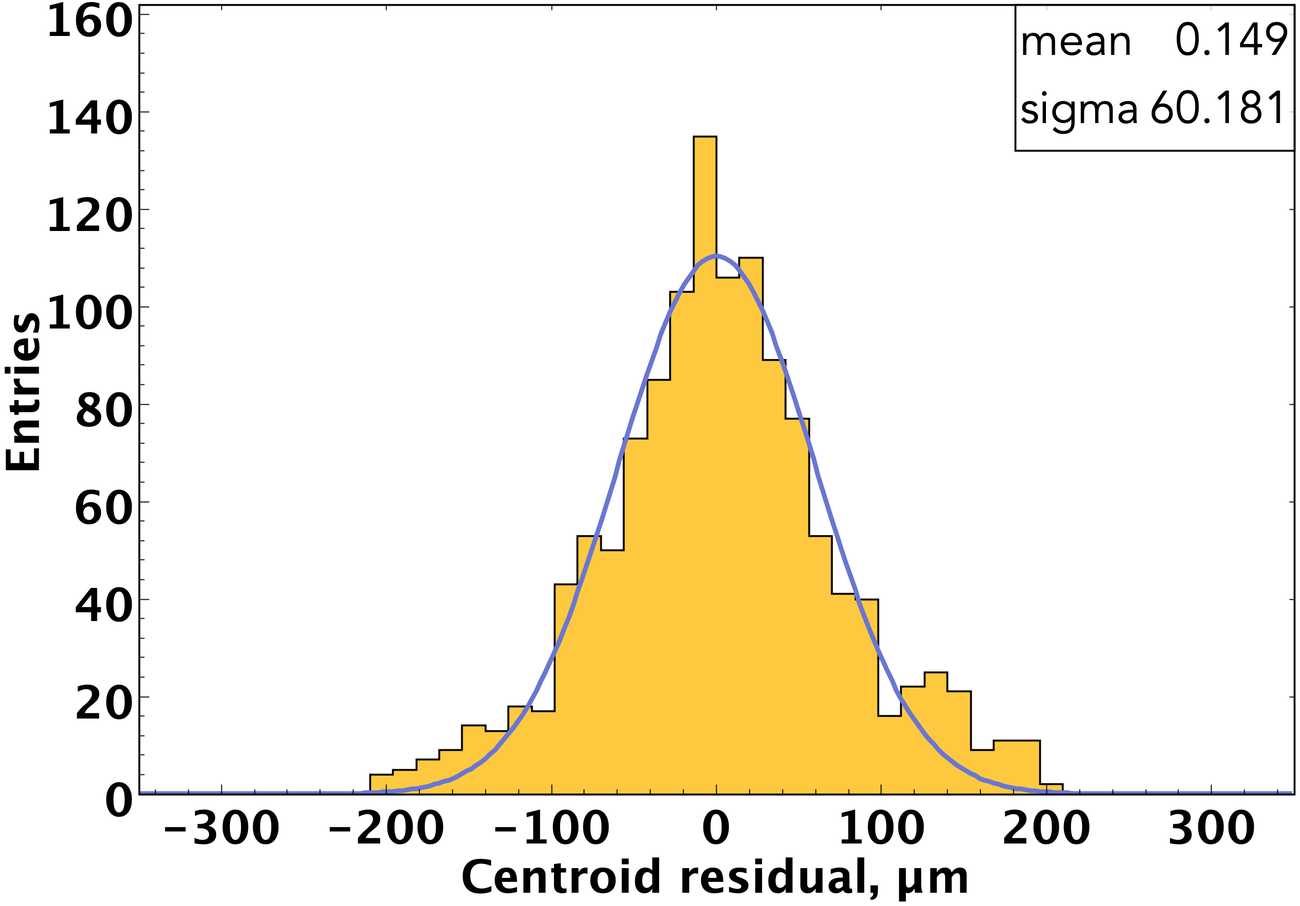
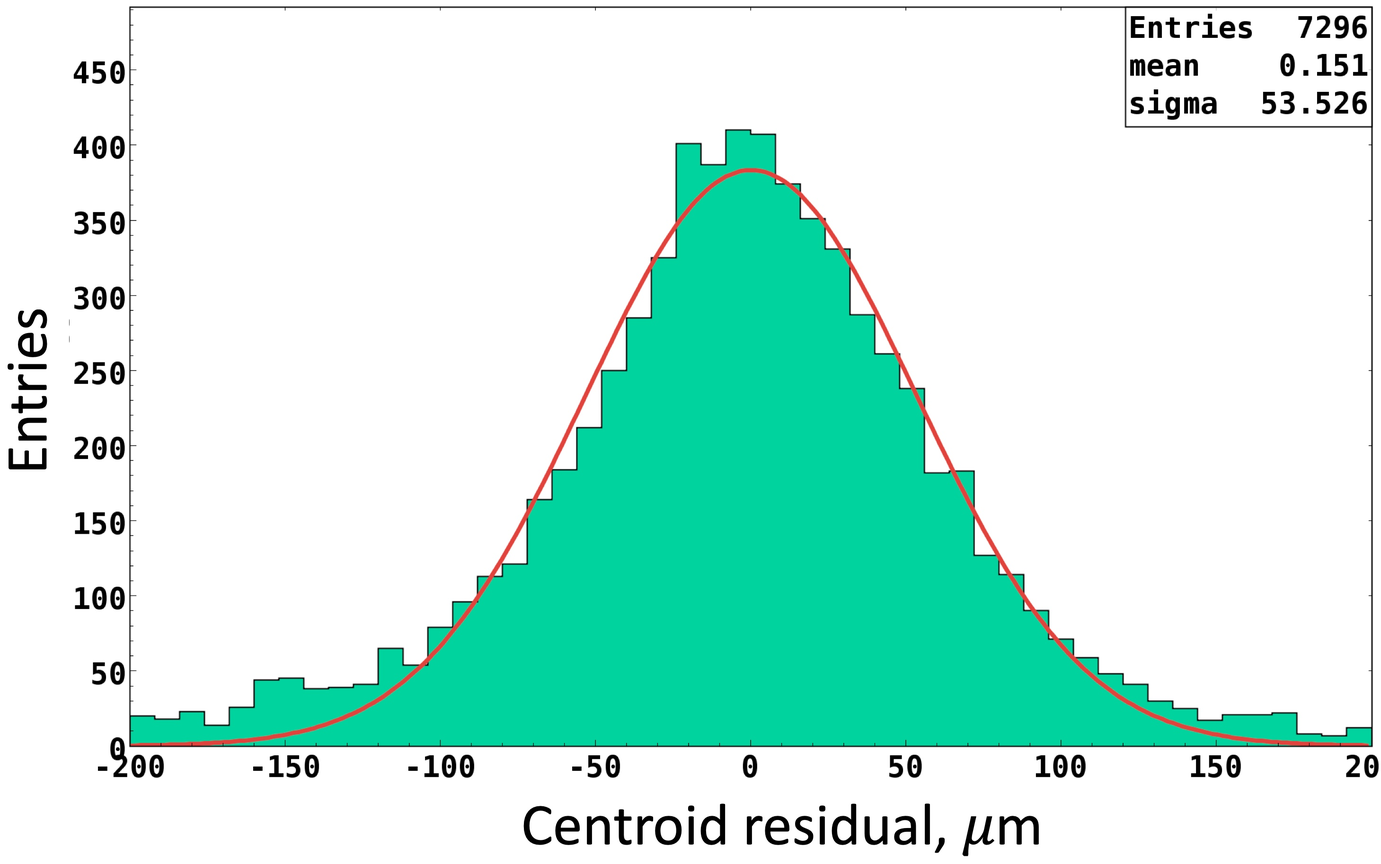
update performance, design

Changed region(s): [[0.0, 0.0, 1.0, 0.9989]]

diff --git a/svt/design.tex b/svt/design.tex
@@ -84,7 +84,7 @@ Single strip DC current & $<$2 nA\\ \hline
 \label{fig:backing-structure}
 \end{figure}
 
-The sensors are mounted on a backing structure composed of Rohacell 71 core, 78 $\mu$m thick bus cable, and carbon fiber (see Fig.~\ref{fig:backing-structure}). The carbon fiber skin is made from Mitsubishi type K13C2U fibers oriented in a quasi-isotropic (45/-45/0) pattern. To ensure adequate electrical conductivity, it is co-cured with the bus cable, made from a Kapton sheet with 3-$\mu$m thick and 0.5-mm wide copper traces; one side provides high voltage (HV) to the sensors, a 6$\times$6~mm copper mesh on the other side grounds the carbon fiber.  The Rohacell core under the hybrid board is replaced by a copper heat sink to remove $\sim$2~W of heat generated by the ASIC preamplifier chips. At the downstream end of the module, the Rohacell core is replaced by a PEEK insert. The cross-section of the active area of the module is shown in Fig.~\ref{fig:svt-module-layers}. 
+The sensors are mounted on a backing structure designed to provide rigid and lightweight support to the sensors. The backing structure is composed of Rohacell 71 core, 78 $\mu$m thick bus cable, and carbon fiber (see Fig.~\ref{fig:backing-structure}). The carbon fiber skin is made from Mitsubishi type K13C2U fibers oriented in a quasi-isotropic (45/-45/0) pattern. To ensure adequate electrical conductivity, it is co-cured with the bus cable, made from a Kapton sheet with 3-$\mu$m thick and 0.5-mm wide copper traces; one side provides high voltage (HV) to the sensors, a 6$\times$6~mm copper mesh on the other side grounds the carbon fiber.  The Rohacell core under the hybrid board is replaced by a copper heat sink to remove $\sim$2~W of heat generated by the ASIC preamplifier chips. At the downstream end of the module, the Rohacell core is replaced by a PEEK insert. The cross-section of the active area of the module is shown in Fig.~\ref{fig:svt-module-layers}. 
 
 \begin{figure}[hbt] 
 \centering 
@@ -109,7 +109,7 @@ A pitch adapter matches the 156~$\mu$m sensor readout pitch to the 50~$\mu$m FSS
 \label{fig:HFCB}
 \end{figure}
 
-Both sides of a module are instrumented with a readout system by a single rigid-flex Hybrid Flex Circuit Board (HFCB) located on the upstream end of the module (see Fig.~\ref{fig:HFCB}). The HFCB provides bias to the silicon sensors, and power and control lines to four FSSR2 ASICs located at the edge of the hybrid, two on the top and two on the bottom side. The ASICs are glued to pads on their substrates with conductive epoxy. These pads are the reference for the analog return for the chips. The hybrid area of each HFCB (42 x 82 mm) consists of two rigid boards (top and bottom hybrids) connected by a 10~mm-long wing flex High Density Interconnect (HDI) cable wrapped around the backing structure (see Fig.~\ref{fig:hfcb-wrap}). The transition line from the rigid board to the flex cable was strengthened. Both hybrids connect to the module electrically using micro-bonding technology for the signals and bias return, and solder connection for the detector bias and module support ground. The sensors, the pitch adapters, and the HFCB are glued to both sides of the backing structure. 
+Both sides of a module are instrumented with a readout system by a single rigid-flex Hybrid Flex Circuit Board (HFCB) located on the upstream end of the module (see Fig.~\ref{fig:HFCB}). The HFCB is a single circuit providing all module services and the components to control and read out the signals from the module. The SVT module is attached to the cold plate and all module service cables are passed through its slots. The design of the HFCB rigid and flex parts accommodates the geometrical constrains imposed by the barrel layout. The HFCB provides bias to the silicon sensors, and power and control lines to four FSSR2 ASICs located at the edge of the hybrid, two on the top and two on the bottom side. The ASICs are glued to pads on their substrates with conductive epoxy. These pads are the reference for the analog return for the chips. The hybrid area of each HFCB (42 x 82 mm) consists of two rigid boards (top and bottom hybrids) connected by a 10~mm-long wing flex High Density Interconnect (HDI) cable wrapped around the backing structure (see Fig.~\ref{fig:hfcb-wrap}). The transition line from the rigid board to the flex cable was strengthened. Both hybrids connect to the module electrically using micro-bonding technology for the signals and bias return, and solder connection for the detector bias and module support ground. The sensors, the pitch adapters, and the HFCB are glued to both sides of the backing structure. 
 
 \begin{figure}[hbt] 
 \centering 
@@ -165,7 +165,7 @@ For the thermal analysis, the module was modeled with the copper support and the
 
 \subsection{Module Assembly and Quality Assurance (QA)}
 
-The position resolution of the detector can be compromised if the alignment is not known. Due to tight material budget restrictions there is no room for an individual module adjustment system. Strict positional tolerances are imposed so that minimal corrections need to be made to the measurements. Therefore, both the position of the sensors with respect to each other and with respect to the alignment points are measured and controlled during module production. A mechanical survey was  carried out before electrical testing to check that the module fits within a well-defined envelope and to ensure no interference with adjacent modules on the support structure. The SVT modules were assembled at the Fermilab Silicon Detector Facility and tested at Jefferson Lab. Prior to installation on a module, all components were inspected and tested as part of the quality assurance procedure.  
+The position resolution of the detector can be compromised if the alignment is not known. Due to tight material budget restrictions there is no room for an individual module adjustment system. Strict positional tolerances are imposed so that minimal corrections need to be made to the measurements. Therefore, both the position of the sensors with respect to each other and with respect to the alignment points are measured and controlled during module production. A mechanical survey was  carried out before electrical testing to check that the module fits within a well-defined envelope and to ensure no interference with adjacent modules on the support structure. The SVT modules were assembled at the Fermilab Silicon Detector Facility and tested at Jefferson Lab. Prior to installation on a module, all components were inspected and tested as part of the quality assurance procedure. Risk failure modes were evaluated for all the production steps and the mitigation actions were taken.
 
 \begin{figure}[hbt] 
 \centering 
@@ -174,7 +174,7 @@ The position resolution of the detector can be compromised if the alignment is n
 \label{fig:iv-sensor}
 \end{figure}
 
-Sensor characterization was initially carried out by the manufacturer and later confirmed by the reception testing at Jlab and Fermilab. Fig.~\ref{fig:iv-sensor} shows the typical IV-curve for the hybrid-type sensor. Sensor leakage currents and the number of bad strips were within the specs and matched the data supplied by the vendor.
+Sensor characterization was initially carried out by the manufacturer and later confirmed by the reception testing at Jlab and Fermilab. Fig.~\ref{fig:iv-sensor} shows the typical IV-curve for the hybrid-type sensor. The quality of the sensors was excellent. All sensor parameters were better than the specification limits. Sensor leakage currents were well below the limit of 10 nA/cm$^2$ (470 nA) and there were no defective strips. 
 
 \begin{figure}[hbt] 
 \centering 
@@ -183,7 +183,7 @@ Sensor characterization was initially carried out by the manufacturer and later 
 \label{fig:cv-sensor}
 \end{figure}
 
-The measurements of sensor full depletion voltage were done by testing the dependence of its capacitance on the reverse bias voltage. Fig.~\ref{fig:cv-sensor} shows good agreement of the data obtained at different test facilities. The full depletion voltage data were found to be within the specs.
+The measurements of sensor full depletion voltage were done by testing the dependence of its capacitance on the reverse bias voltage. Fig.~\ref{fig:cv-sensor} shows good agreement of the data obtained at different test facilities. The full depletion voltage data were found to be within the specs. 
 
 \begin{figure}[hbt] 
 \centering 
@@ -192,7 +192,7 @@ The measurements of sensor full depletion voltage were done by testing the depen
 \label{fig:probe-station}
 \end{figure}
 
-The initial tests for continuity, shorts, and current draw on the FSSR2 chips were done by TestEdge, Inc on the wafer level prior to the dicing. The yield was ~99$\%$, 8 failures out of 520 chips. A more detailed testing of individual chips after the dicing was performed at JLab.  Fig.~\ref{fig:probe-station} shows the probe card used for the quality assurance of the readout chips. The measurement procedure included register testing (read/write), loading and reading back the mask, measuring channel inefficiency, gain, noise, and threshold dispersion. 330 chips were tested with yield over 90$\%$. No additional dead channels have been observed in the modules produced from the tested chips.  
+The pitch adapters passed visual inspection. Mechanical survey, bond pull test, and trace resistance measurements were performed on the selected pitch adapters.
 
 \begin{figure}[hbt] 
 \centering 
@@ -201,7 +201,17 @@ The initial tests for continuity, shorts, and current draw on the FSSR2 chips we
 \label{fig:hfcb-test}
 \end{figure}
 
-Fabrication and primary quality control of the HFCBs were done by Compunetics. A variety of mechanical mock ups using different 12-layer stack-ups were used to evaluate the bend radius of the wing flex cable. Boards passed the bending test were sent to the MicroCraft company for a comprehensive automated electrical testing. HFCB assembly was done by Compunetix inc. using automated pick-and-place component mounting system with thermal profiling reflow system, and automated inspection process. Reception test at JLab included visual inspection, resistance measurements, and burn-in. Acceptance testing of the HFCBs at Jlab is shown in Fig.~\ref{fig:hfcb-test}.
+The initial tests for continuity, shorts, and current draw on the FSSR2 chips were done by TestEdge, Inc on the wafer level prior to the dicing. The yield was ~99$\%$, 8 failures out of 520 chips. A more detailed testing of individual chips after the dicing was performed at JLab.  Fig.~\ref{fig:probe-station} shows the probe card used for the quality assurance of the readout chips. The measurement procedure included register testing (read/write), loading and reading back the mask, measuring channel inefficiency, gain, noise, and threshold dispersion. 330 chips were tested with yield over 90$\%$. No additional dead channels have been observed in the modules produced from the tested chips.  
+
+\begin{figure}[hbt] 
+\centering 
+\includegraphics[width=1.0\columnwidth,keepaspectratio]{bus-cable-lamination.jpg}
+\caption{Bus cable lamination.}
+\label{fig:bus-cable-lamination}
+\end{figure}
+
+Fabrication and primary quality control of the HFCBs were done by Compunetics. A variety of mechanical mock ups using different 12-layer stack-ups were used to evaluate the bend radius of the wing flex cable. Boards passed the bending test were sent to the MicroCraft company for a comprehensive "flying lead" automated electrical testing, including intranet tests for opens, net to net (with 50 mil adjacency) tests for shorts, and isolation tests applying 100 V for 16 ms. HFCB assembly was done by Compunetix inc. using automated pick-and-place component mounting system with thermal profiling reflow system, and automated inspection process. Reception test at JLab included visual inspection, resistance measurements, and burn-in. Acceptance testing of the HFCBs at Jlab is shown in Fig.~\ref{fig:hfcb-test}.
+
 
 \begin{figure}[hbt] 
 \centering 
@@ -210,7 +220,16 @@ Fabrication and primary quality control of the HFCBs were done by Compunetics. A
 \label{fig:bus-cable-routing}
 \end{figure}
 
-Fabrication of the backing structure was done in the carbon fiber laboratory at Fermilab. To make a bus cable skin for the backing structure, the bus cable panel was laminated on the sheet of the carbon fiber and co-cured in the oven at 250 F. The layout of the six bus cables on a panel has a minimum of 5.05 mm between adjacent cables on the panel to allow for the 1/8-inch diameter routing bit (see Fig.~\ref{fig:bus-cable-routing}). After the routing step the components of the bus cable (two bus cable skins and Rohacell core) were examined under the microscope and selected for the next fabrication step. 
+Fabrication of the backing structure was done in the carbon fiber laboratory at Fermilab. To make a bus cable skin for the backing structure, the bus cable panel containing 6 circuits was laminated on the 3-ply sheet of the carbon fiber for good ground contact and co-cured under vacuum in the oven at 250 F. Fig.~\ref{fig:bus-cable-lamination} shows the process of bus cable lamination to the carbon fiber.
+
+\begin{figure}[hbt] 
+\centering 
+\includegraphics[width=1.0\columnwidth,keepaspectratio]{inserts.jpg}
+\caption{Inspecting the inserts.}
+\label{fig:inserts}
+\end{figure}
+
+The layout of the six bus cables on a panel has a minimum of 5.05 mm between adjacent cables on the panel to allow for the 1/8-inch diameter routing bit. Fig.~\ref{fig:bus-cable-routing} shows the process of the Computer Numerical Control (CNC) precision routing of the laminated bus cables. After the routing step the components of the bus cable (two bus cable skins and Rohacell core) were examined under the microscope and selected for the next fabrication step. 
 
 \begin{figure}[hbt] 
 \centering 
@@ -219,9 +238,11 @@ Fabrication of the backing structure was done in the carbon fiber laboratory at 
 \label{fig:backing-structure-mold}
 \end{figure}
 
-To assemble the backing structure, a mold and an epoxy that cures at room temperature were used (see Fig.~\ref{fig:backing-structure-mold}). The backing structures were cured on a precision jig to satisfy the required tolerances. Backing structure flatness was within 250 $\mu$m.
+Copper and PEEK inserts were inspected at Fermilab (Fig.~\ref{fig:inserts}). Go/No-Go gage pins and caliper measurements were done on all inserts. The Coordinate Measuring Machine (CMM) inspection of precision features was performed on a subset of the parts. JLab mechanical engineer approved inspection results before using the inserts in production.
 
-Each module has two pairs of mounting and fiducial holes in the copper heat sink and one in the PEEK insert (see Fig.~\ref{fig:backing-structure-assembled}). After a module was fabricated, the positions of these fiducial holes were measured with respect to the fiducial marks etched on the sensor. 
+To assemble the backing structure, a mold and an epoxy that cures at room temperature were used (see Fig.~\ref{fig:backing-structure-mold}). Precision pins were holding the  mounting inserts in place. The backing structures were cured on a precision jig to satisfy the required tolerances. Backing structure flatness was within 250 $\mu$m.
+
+Assembled backing structure is shown in Fig.~\ref{fig:backing-structure-assembled}. Each module has two pairs of mounting and fiducial holes in the copper heat sink (on the right side of the picture) and one in the PEEK insert (on the left side). After a module was fabricated, the positions of these fiducial holes were measured with respect to the fiducial marks etched on the sensor. The copper trace along the backing structure has gold-plated pads to ensure electrical contact from the back side of the sensors to HV bias via silver epoxy applied to them during sensor glueing. There are 3 pads for each sensor. On the right side of the backing structure close to the copper insert, there are wire-bonding pads to connect the HV trace and the copper mesh to the bias and ground pads on the HFCB.
 
 \begin{figure}[hbt] 
 \centering 
@@ -239,7 +260,7 @@ The holes for the mounting pin have a tight diameter tolerance and are used for 
 \label{fig:backing-structure-kapton}
 \end{figure}
 
-Installation of the HFCB onto the backing structure was done in a special fixture (see Fig.~\ref{fig:hfcb-glueing}). Backing structure was pinned to the base plate with alignments tabs on the HFCB setting its position. Bottom side glued and allowed to cure. HV and GND tabs were soldered to bus cable, then the backing structure was flipped over for glueing of the top side of the HFCB, followed by soldering the HV and GND tabs and cutting off the alignment tabs. Visual inspection and electrical testing were done by the JLab crew.
+Installation of the HFCB onto the backing structure was done in a special fixture (see Fig.~\ref{fig:hfcb-glueing}). Backing structure was pinned to the base plate with alignments tabs on the HFCB setting its position and alignment of both sides. Bottom side glued and allowed to cure. HV and GND tabs were soldered to bus cable, then the backing structure was flipped over for glueing of the top side of the HFCB, followed by soldering the HV and GND tabs and cutting off the alignment tabs. Visual inspection and electrical testing were done by the JLab crew.
 
 \begin{figure}[hbt] 
 \centering 
@@ -248,14 +269,17 @@ Installation of the HFCB onto the backing structure was done in a special fixtur
 \label{fig:hfcb-glueing}
 \end{figure}
 
-Sensor placement was done in the fixture shown in Fig.~\ref{fig:sensor-placement}. The backing structure with mounted HFCB was attached to the fixture with a clamp. The vacuum channels in the fixture were used to ensure the planarity of the backing structure. The epoxy glue was spread on the surface of the backing structure, then the sensors were placed and aligned within few $\mu$m with respect to the insert and sensor fiducials in the coordinate measuring machine (CMM). The weight block wrapped in Kapton tape was holding the sensor during the curing process. Sensor alignment and flatness were within the specifications, most sensors were aligned within 5 $\mu$m.
-
+Backing structure was mounted to removable support plate on the fixture with an optical CMM. The backing structure with mounted HFCB was attached to the fixture with a clamp. The vacuum channels in the fixture were used to ensure the planarity of the backing structure. A coordinate system was established from the mounting hole and the slot. The alignment frames were used to rough align sensors with no epoxy and are then withdrawn. 
+ The epoxy was spread on surface of the backing structure and silver epoxy was applied to HV pad areas using the masks. Sensor alignment frames were moved into place and the final alignment with respect to the insert and sensor fiducials was set (Fig.~\ref{fig:sensor-placement-cmm}). The pitch adapters were positioned by hand. 
+ 
 \begin{figure}[hbt] 
 \centering 
-\includegraphics[width=1.0\columnwidth,keepaspectratio]{sensor-placement.png}
-\caption{Mounting the sensors on the backing structure.}
-\label{fig:sensor-placement}
+\includegraphics[width=1.0\columnwidth,keepaspectratio]{sensor-placement-cmm.jpg}
+\caption{Sensor alignment in the CMM.}
+\label{fig:sensor-placement-cmm}
 \end{figure}
+
+ The weight block wrapped in Kapton tape was holding the sensor during the curing process. Sensor alignment and flatness were within the specifications, most sensors were aligned within 5 $\mu$m as was validated by the independent sensor alignment survey on the Optical Gaging Products (OGP) CMM.
 
 After installation of the HFCBs and pitch adapters, the module was placed in a carrier box designed to allow storage of partially and fully fabricated modules (see Fig.~\ref{fig:svt-carrier-box}). The design of the carrier box provides secure mounting of the double-sided module using the location pins with the screws in the copper and PEEK inserts. The flex cable is secured with a clamp. The module can be powered, cooled (using a passive heat sink), and operated in the carrier box. The carrier box allows access to both sides of the module to facilitate inspection and debugging. 
 
@@ -301,12 +325,12 @@ Barrel integration took place at Jefferson Lab. The regions were assembled in se
 \label{fig:svt-assembly}
 \end{figure}
 
-Fig.~\ref{fig:assembly-closeup} shows he close-up photo of the adjacent modules on the barrel, demonstrating the two readout chips encapsulated on 3 sides, wire-bonded to the HFCB, the pitch adapter, and the sensor. The barrel installation procedure was tested successfully, no modules were damaged during the region integration.
+Fig.~\ref{fig:assembly-closeup} shows he close-up photo and the layout of the adjacent modules on the barrel, demonstrating the two readout chips encapsulated on 3 sides, wire-bonded to the HFCB, the pitch adapter, and the sensor. The sensors extend on both sides of the backing structure by 2.5 mm. The minimal gap between the adjacent modules is 300 $\mu$m. The barrel installation procedure was tested successfully, no modules were damaged during the region integration.
 
 \begin{figure}[hbt] 
 \centering 
 \includegraphics[width=1.0\columnwidth,keepaspectratio]{assembly-closeup.jpg}
-\caption{The close-up photo of the adjacent modules on the barrel.}
+\caption{The close-up photo of the adjacent modules on the barrel (top). Layout of the adjacent modules (bottom).}
 \label{fig:assembly-closeup}
 \end{figure}
 

diff --git a/svt/performance.tex b/svt/performance.tex
@@ -29,12 +29,12 @@ Longer silicon strips have higher capacitance and thus a higher input noise (see
 
 \begin{figure}[hbt] 
 \centering 
-\includegraphics[width=1.0\columnwidth,keepaspectratio]{occ_thr.png}
+\includegraphics[width=1.0\columnwidth,keepaspectratio]{occ_thr.jpg}
 \caption{Channel noise occupancy vs. DAC hit/no-hit threshold (in DAC bins, one DAC bin corresponds to 3.5~mV).}
 \label{fig:noiseocc}
 \end{figure}
 
-The noise occupancy histogram with no charge injection is shown in Fig.~\ref{fig:noiseocc}. It probes the tail of the noise distribution, which can show effects masked by the higher occupancy at low thresholds. A MPV of the signal peak from a MIP corresponds to a 100$^{th}$ DAC bin. The equivalent noise charge of the SVT channels is shown in  Fig.~\ref{fig:enc}. The peak is $\sim$1600 electrons, the shoulder on the left side corresponds to the shorter strips. The channel noise allows setting a 3$\sigma$ threshold at the 30~keV level. 
+The noise occupancy histogram with no charge injection is used to find the noise value (Fig.~\ref{fig:noiseocc}). It probes the tail of the noise distribution, which can show effects, which are masked by the higher occupancy at low thresholds and provides a cross-check of the noise value obtained from the response curve measurement. A MPV of the signal peak from a MIP corresponds to a 100$^{th}$ DAC bin. The equivalent noise charge of the SVT channels is shown in  Fig.~\ref{fig:enc}. The peak is $\sim$1600 electrons (signal-to-noise ratio 15), the shoulder on the left side corresponds to the shorter strips. The channel noise allows setting a 3$\sigma$ threshold at the 30~keV level. 
 
 \begin{figure}[hbt] 
 	\centering 
@@ -77,6 +77,15 @@ The detector response and full readout chain calibration was done with $\gamma$ 
 \subsection{Integration and system checkout}
 
 To verify performance of the integrated detector, data acquisition chain, power services, and cooling system, as well as the detector control and data acquisition software, the final detector system was installed in the clean room and used at all stages of tracker integration and commissioning. The SVT was operated for several months under environmental conditions close to the ones in the experimental hall. Defects known before the integration of the system were reestablished. 99.9$\%$ of channels were operational after the detector integration. 
+ 
+\begin{figure}[hbt] 
+\centering 
+\includegraphics[width=1.0\columnwidth,keepaspectratio]{occupancy-threshold.jpg}
+\caption{Log occupancy vs. threshold squared.}
+\label{fig:occupancy-threshold}
+\end{figure}
+
+The noise behavior was found to be within expectations and well understood. The dependence of the noise on the environmental temperature and humidity is small. The noise performance in the experimental hall was comparable with the results taken in the clean room during integration. Several diagnostic tools were used to measure the common mode noise performance of the detector. Fig.~\ref{fig:occupancy-threshold} shows log occupancy vs. threshold squared plot. Purely Gaussian noise gives a straight line in the plot over much of the useful range. Occupancy refers to the (normalized) total number of hits in all channels in a run. The power of this plot is to show non-Gaussian noise contributions as deviations from this linear fall-off. The hit map is plotted in the plane spanned by channel number and event number. It is an important diagnostic tool to test for presence of the correlated noise and understanding the data quality, such as dead/noisy channels, channel occupancy, uniformity across the channels and events in a run, coherent effects on the channels in individual events.
 
 \begin{figure}[hbt] 
 \centering 
@@ -85,7 +94,7 @@ To verify performance of the integrated detector, data acquisition chain, power 
 \label{fig:svt_gain}
 \end{figure}
 
-The noise behavior was found to be within expectations and well understood. The dependence of the noise on the environmental temperature and humidity is small. The noise performance in the experimental hall was comparable with the results taken in the clean room during integration. No significant correlated noise has been observed between the channels of the same chip, between the chips of the same module, or between the closely placed modules. The front-end electronics performed reliably, and no chip failures were observed. The distribution of gain was uniform and stable for all channels (see Fig.~\ref{fig:svt_gain}). 
+No significant correlated noise has been observed between the channels of the same chip, between the chips of the same module, or between the closely placed modules. The front-end electronics performed reliably, and no chip failures were observed. The distribution of gain was uniform and stable for all channels (see Fig.~\ref{fig:svt_gain}). 
  
 \begin{figure}[hbt] 
 \centering 
@@ -158,7 +167,7 @@ The charge sharing among two adjacent strips was studied using using the $\eta$-
 \label{fig:eta-function}
 \end{figure}
 
-Strip multiplicity of the clusters (cluster size) in the cosmic run is shown in Fig.~\ref{fig:cluster-size}. The size of the clusters is lowest in the innermost region and is increasing with radius due to a larger local track angle (the tracks, triggered by the CTOF, crossing the barrel far from the beam line).
+Strip multiplicity of the clusters (cluster size) in the cosmic run is shown in Fig.~\ref{fig:cluster-size}. The size of the clusters is lowest in the innermost region and is increasing with radius due to a larger local track angle (the tracks, triggered by the CTOF, crossing the barrel far from the beam line). The results are in agreement with simulations and the data on the charge sharing among adjacent readout strips obtained with the laser.
 
 \begin{figure}[hbt] 
 \centering 
@@ -167,7 +176,7 @@ Strip multiplicity of the clusters (cluster size) in the cosmic run is shown in 
 \label{fig:cluster-size}
 \end{figure}
 
-Cosmic muons are an important source for calibration and alignment. Their trajectories are sensitive to misalignments of different tracker parts. The cosmic muons significantly improve the alignment precision. A preliminary alignment of the SVT was done using the sample of several millions of the cosmic muon tracks taken without solenoid magnetic field. With exception of the modules located at the shallow angle to the vertical axis, the acquired sample provided adequate statistics of the tracks to extract the misalignment data. The tracks crossing the sensors at large inclination angles and low energy tracks subject to multiple scattering were rejected. Additional requirement on the $\chi^2$ per degree of freedom of the track fit was applied to reject tracks effected by the outlier hits. The spacial residuals before (blue) and after (red) the alignment procedure (see Fig.~\ref{fig:alignment}) are expected to provide the designed momentum resolution.
+Cosmic muons are an important source for calibration and alignment. Their trajectories are sensitive to misalignments of different tracker parts. The cosmic muons significantly improve the alignment precision. A preliminary alignment of the SVT was done using the sample of several millions of the cosmic muon tracks taken without solenoid magnetic field. With exception of the modules located at the shallow angle to the vertical axis, the acquired sample provided adequate statistics of the tracks to extract the misalignment data. The tracks crossing the sensors at large inclination angles and low energy tracks subject to multiple scattering were rejected. Additional requirement on the $\chi^2$ per degree of freedom of the track fit was applied to reject tracks effected by the outlier hits. The spacial residuals before (blue) and after (red) the alignment procedure (see Fig.~\ref{fig:alignment}) are shown. Only the shifts in the sensor plane were taken into account in the alignment procedure for this plot. Validation of alignment procedures was performed on Monte Carlo simulation and cosmic data.
 
 \begin{figure}[hbt] 
 \centering 
@@ -292,7 +301,6 @@ Noise performance of the SVT during the physics data taking is demonstrated in F
 
 Fig.~\ref{fig:occupancy-beam-current} shows SVT occupancy vs. beam current for hydrogen and deuterium targets. The production data were taken at 50 nA. The SVT occupancy increases linearly with luminosity and remains at low levels not causing a substantial drop in the track finding efficiency.
 
-
 \begin{figure}[hbt] 
 \centering 
 \includegraphics[width=1.0\columnwidth,keepaspectratio]{residual.jpg}
@@ -300,4 +308,14 @@ Fig.~\ref{fig:occupancy-beam-current} shows SVT occupancy vs. beam current for h
 \label{fig:residual}
 \end{figure}
 
-A series of dedicated central tracker alignment runs was done at low beam current without magnetic field. The alignment data were collected when position of the central detector subsystems or the target has changed. In addition to the track-based alignment, the data from the mechanical survey of the fiducials were also recorded when the detectors were moved. Centroid residual for one of the SVT sensors after preliminary tracker alignment is shown in Fig.~\ref{fig:residual}. Sensor spacial resolution is close to the specs.
+A series of dedicated central tracker alignment runs was done at low beam current without magnetic field. The alignment data were collected when position of the central detector subsystems or the target has changed. The dependence of the residuals on the track parameters is explicitly taken into account. The alignment code uses the partial derivatives of the distance of closest approach (DOCA) taken with respect to the track parameters and the SVT geometry. This approach accounts for the correlated shifts among the geometry parameters. In addition to the track-based alignment, the data from the mechanical survey of the fiducials were also recorded when the detectors were moved. Centroid residual for one of the SVT sensors after preliminary tracker alignment is shown in Fig.~\ref{fig:residual}. Sensor spacial resolution is within the specs. Further improvements are expected from the ongoing development of the alignment algorithm and the track reconstruction code (like energy loss and Lorentz angle corrections).
+
+\begin{figure}[hbt] 
+\centering 
+\includegraphics[width=1.0\columnwidth,keepaspectratio]{lorentz-angle.jpg}
+\caption{Cluster size vs. local track azimuthal angle.}
+\label{fig:lorentz-angle}
+\end{figure}
+
+Fig.~\ref{fig:lorentz-angle} shows average cluster size at different local azimuthal angles of the track. Zero angle corresponds to normal incident tracks. The data were taken at negative polarity of the solenoid field. The smallest cluster size corresponds to the Lorentz angle.
+

diff --git a/svt/readout.tex b/svt/readout.tex
@@ -35,7 +35,24 @@ The FSSR2 ASICs' architecture is such that it sends out 24-bit data words if a c
 
 \subsection{Back-End Readout}
 
-The four FSSR2 ASICs on the HFCB communicate with the VXS architecture-based segment collector module (VSCM), which configures the FSSR2 ASIC registers, provides analog calibration pulses to the FSSR2 ASICs, sets/monitors proper control signals (clock, reset, status), and acquires serialized event data from the FSSR2 ASICs. Each VSCM can interface with two HFCBs. Up to 16 VSCM cards can reside in a VXS crate. When multiple VSCM cards are used, additional cards, the Trigger Interface (TI), and Signal Distribution (SD), are required to ensure event and timing synchronization. The VSCM supports a stand-alone mode, useful when only one or two HFCBs are used. The event builder of the VSCM uses the BCO clock timestamp from the data word of each FSSR2 ASIC and matches it to the timestamp of the global system clock, given by the CLAS12 trigger. The FSSR2 ASIC data is tagged with a global trigger timestamp (48 bits, 8 ns resolution). Since the BCO clock is derived from the global system clock, triggers received by the VSCM enable the event builder to extract hits with specific BCO timestamps that fall in a programmable time window within which the event could have occurred. When a trigger is received, the data words from the FSSR2 ASICs are copied to an event buffer and pushed into an event FIFO. These events can be read out in order with other modules in the system while event-level synchronization across all modules in the system is maintained. The VME interface provides for event readout, access to the configuration registers on the VSCM, bridges access to the registers of the FSSR2 ASICs, and provides an interface to the CPU. The A32 address space, 2 MB in size, is dedicated to the event builder FIFO, which can be read using single-cycle and block transfer VME protocols. Block transfer protocols are used for event readout; the 2eSST protocol planned for use is to maximize performance. The 2eSST protocols provide ~200 MB/s sustained transfer rate and supports the proprietary Jefferson Lab token-passing scheme that allows a single direct memory access (DMA) operation on the CPU to transfer data from all VSCM modules sequentially, eliminating overhead (compared to individual board transfers). The VSCM is set up to extract event data within a programmable lookback window of $\sim$16~$\mu$s relative to the received trigger. 
+The four FSSR2 ASICs on the HFCB communicate with the VXS architecture-based segment collector module (VSCM), which configures the FSSR2 ASIC registers, provides analog calibration pulses to the FSSR2 ASICs, sets/monitors proper control signals (clock, reset, status), and acquires serialized event data from the FSSR2 ASICs. Each VSCM can interface with two HFCBs. Up to 16 VSCM cards can reside in a VXS crate. When multiple VSCM cards are used, additional cards, the Trigger Interface (TI), and Signal Distribution (SD), are required to ensure event and timing synchronization. The VSCM supports a stand-alone mode, useful when only one or two HFCBs are used. The event builder of the VSCM uses the BCO clock timestamp from the data word of each FSSR2 ASIC and matches it to the timestamp of the global system clock, given by the CLAS12 trigger. Fig. ~\ref{fig:fssr2-sync} shows the time diagram for FSSR2 clock and timestamp synchronization. Global trigger system "CLK" and "SYNC" signals are used by VSCM to phase align the BCO clocks  and counters across all the FSSR2 chips. When SYNC is asserted, BCO clock is halted after a smart reset is issued to the FSSR2. When SYNC is released, BCO clock is started with rising edge aligned to the global trigger clock rising edge. The FSSR2 ASIC data is tagged with a global trigger timestamp (48 bits, 8 ns resolution). Since the BCO clock is derived from the global system clock, triggers received by the VSCM enable the event builder to extract hits with specific BCO timestamps that fall in a programmable time window within which the event could have occurred. When a trigger is received, the data words from the FSSR2 ASICs are copied to an event buffer and pushed into an event FIFO. These events can be read out in order with other modules in the system while event-level synchronization across all modules in the system is maintained. The VME interface provides for event readout, access to the configuration registers on the VSCM, bridges access to the registers of the FSSR2 ASICs, and provides an interface to the CPU. The 32 address space, 2 MB in size, is dedicated to the event builder FIFO, which can be read using single-cycle and block transfer VME protocols. Block transfer protocols are used for event readout; the 2eSST protocol planned for use is to maximize performance. The 2eSST protocols provide ~200 MB/s sustained transfer rate and supports the proprietary Jefferson Lab token-passing scheme that allows a single direct memory access (DMA) operation on the CPU to transfer data from all VSCM modules sequentially, eliminating overhead (compared to individual board transfers). The VSCM is set up to extract event data within a programmable lookback window of $\sim$16~$\mu$s relative to the received trigger. 
+
+\begin{figure}[hbt] 
+\centering 
+\includegraphics[width=1.0\columnwidth,keepaspectratio]{fssr2-sync.jpg}
+\caption{FSSR2 clock and timestamp synchronization.}
+\label{fig:fssr2-sync}
+\end{figure}
+
+The VSCM design makes the FSSR2 data-driven architecture compatible with CLAS12 free running DAQ. Fig. ~\ref{fig:vscm-event-trigger} describes the VSCM event triggering. At (1) a system reset and synchronization is performed. A physics event occurs at (2). At (3) the FSSR2 time unsorted hits arrive. At (4) the VSCM tags hits with the global trigger counter using the BCO number. The VSCM stores hits in the FIFO by the strip number at (5). At (6) level 1 accept received the FSSR2 hits with the global trigger counter matching the trigger window. The VSCM can handle large detector occupancies.
+
+\begin{figure}[hbt] 
+\centering 
+\includegraphics[width=1.0\columnwidth,keepaspectratio]{vscm-event-trigger.jpg}
+\caption{VSCM event triggering.}
+\label{fig:vscm-event-trigger}
+\end{figure}
+
 The calibration pulser circuit provides a 2 Vpp dynamic range, up to 125 MS/s, and 14-bit resolution (for pulse height steps in sub mV increments). The bandwidth is sufficient to allow 10 ns rise times to be delivered over 15 feet of 50~$\Omega$ coax cable terminated with 50~$\Omega$. Two independent pulser outputs are provided to drive both HFCB modules. The pulser signal phase can be placed in a deterministic phase relationship to the BCO clock that drives the FSSR2 ASIC. 
 
 During the SVT integration and testing a full-featured test stand (Fig. ~\ref{fig:svt-test-stand}) accommodating production services (power supplies, DAQ, slow controls, alarm handler, purging, and cooling system) for the whole detector was installed in the clean room.

diff --git a/svt/simulation.tex b/svt/simulation.tex
@@ -79,7 +79,7 @@ Fluences, radiation doses, and 1 MeV neutron damage rates in the SVT were calcul
 \label{fig:energy-deposited-l1}
 \end{figure}
 
-A tungsten shield 51~$\mu$m thick is installed on the target scattering chamber. The shield consists of 2 sheets mounted over the top and bottom halves of the foam cylinder referenced to the SVT common ground. The SVT rates and radiation damage benefit from the inclusion of the tungsten shield. The rates have been compared with physics run data at several beam currents. There is a good agreement between the real and the simulated data.
+A tungsten shield 51~$\mu$m thick is installed on the target scattering chamber. The shield consists of 2 sheets mounted over the top and bottom halves of the foam cylinder referenced to the SVT common ground. The SVT rates and radiation damage benefit from the inclusion of the tungsten shield. The rates have been compared with physics run data at several beam currents.
 
 While the gamma fluences / doses show a dramatic decrease with the introduction of shielding, the total fluences and doses decrease significantly for the thinner configuration and do not vary much for thicker tungsten (see Fig.~\ref{fig:rates-l1}). The photon radiation dose becomes negligible for 50 $\mu$m or more of tungsten with total 1 MeV equivalent radiation dose about 65 krad per year on a liquid-hydrogen target. For 15 years of running the experiment on a carbon target the estimated radiation dose for the sensors is 2.5~Mrad (with 50 $\%$ operation) \cite{TDRSVT}. 
 
@@ -88,6 +88,15 @@ While the gamma fluences / doses show a dramatic decrease with the introduction 
 \includegraphics[width=1.0\columnwidth,keepaspectratio]{rates-l1.jpg}
 \caption{Rates in the first SVT layer for different tungsten shield thickness from 50 to 500 $\mu$m for a liquid hydrogen target at the nominal CLAS12 operating luminosity. No energy threshold cut applied.}
 \label{fig:rates-l1}
+\end{figure}
+
+An estimate of the double hit rate was performed. Fig.~\ref{fig:double-hit-rate} shows the probability of the double hits in the inner region of the SVT. The ratio of the double hits to the single hits was found to be about 1$\%$.
+
+\begin{figure}[hbt] 
+\centering 
+\includegraphics[width=1.0\columnwidth,keepaspectratio]{double-hit-rate.jpg}
+\caption{Double hit fraction in the region 1 with liquid hydrogen target.}
+\label{fig:double-hit-rate}
 \end{figure}
 
 \subsection{Magnetic Field}
@@ -101,20 +110,5 @@ Due to the constrains on the maximum length of the cables, the readout, slow con
 \label{fig:solenoid-field}
 \end{figure}
 
-%\subsection{Occupancies}
 
-%\subsection{Alignment}
-
-%Validation of alignment procedures was performed on Monte Carlo simulation and cosmic data. Detector alignment procedure is using a least squares approach of a Millepede II algorithm \cite{Millepede}. The dependence of the residuals on the track parameters is explicitly taken into account. The alignment code uses the partial derivatives of the distance of closest approach (DOCA) taken with respect to the track parameters and the SVT geometry. This approach accounts for correlated shifts among the geometry parameters. Results of alignment correction for one of the SVT modules are shown in Fig.~\ref{fig:alignment}. Only shifts in the sensor plane were taken into account in the alignment procedure for this plot.
-
-%\begin{wrapfigure}{l}{0.5\columnwidth}
-%\includegraphics[width=1.0\columnwidth]{alignment.png}
-%\caption{Alignment of the SVT module.}
-%\label{fig:alignment}
-%\end{wrapfigure}
-
-%\subsection{Resolutions}
-
-
-%\subsection{Efficiencies}
 

diff --git a/svt/hardware.tex b/svt/hardware.tex
@@ -46,7 +46,7 @@ Ambient conditions inside the detector are monitored by temperature and humidity
 \label{fig:ambient-sensors}
 \end{figure}
 
-Safe operation of the tracker is ensured by Experimental Physics and Industrial Control System (EPICS)-based real-time monitoring of all important operation parameters and status of the hardware components \cite{EPICS}. The software and hardware interlocks continuously monitor the critical system parameters. A multi-level user interface provides safe operation of the SVT by the shift crew and all necessary tools for the system experts (see Fig.~\ref{fig:svt-overview}).
+Safe operation of the tracker is ensured by Experimental Physics and Industrial Control System (EPICS)-based real-time monitoring of all important operation parameters and status of the hardware components \cite{EPICS}. The software and hardware interlocks continuously monitor the critical system parameters. A multi-level user interface provides safe operation of the SVT by the shift crew and all necessary tools for the system experts (see Fig.~\ref{fig:svt-overview}). The fault charts for the software and hardware monitoring systems were made, the actions are implemented in the interlock system.
 
 \begin{figure}[hbt] 
 \centering 

diff --git a/svt/conclusionsAndAcknowledgement.tex b/svt/conclusionsAndAcknowledgement.tex
@@ -2,7 +2,7 @@
 
 The SVT is installed in the CLAS12 spectrometer in Hall B of Jefferson Lab, and the performance of modules measured during detector integration has been confirmed. No channels were lost during the installation. The SVT barrel has been electrically  tested with the number of defective channels of 0.1$\%$, well within the specification. The chip average ENC noise is uniform, $\sim$1600 e, on par with the leading silicon strip trackers (see Table~\ref{tab:enc-table}). There is no evidence of coherent noise between the modules and other components. The tracker has been commissioned with cosmic rays and integrated as part of the CLAS12 central detector. Experience in operating and commissioning the tracker has been gained during the first year of operation. The tracking performance was studied with beam data and matches the physics requirements. 
 
-\begin{table}[]
+\begin{table}[hbt]
 \begin{tabular}{llll}
 \hline
 Detector/module      & Strip length, cm & ASIC         & ENC, e\\ \hline
